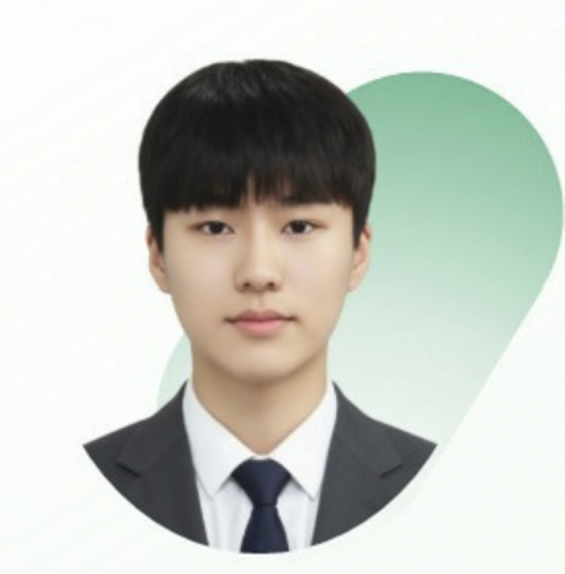
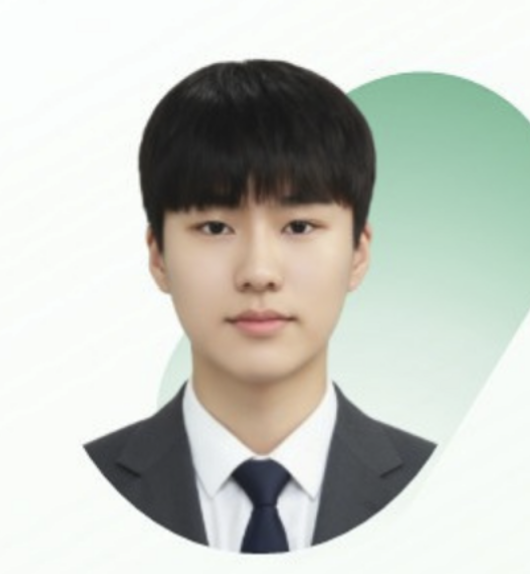
팀원 최신화 및 수상이력 추가

diff --git a/index.html b/index.html
@@ -84,8 +84,8 @@
         }
         
         .profile-image {
-            width: 150px;
-            height: 150px;
+            width: 120px;
+            height: 120px;
             border-radius: 50%;
             background: linear-gradient(135deg, rgba(255, 255, 255, 0.2), rgba(255, 255, 255, 0.05));
             border: 3px solid rgba(255, 255, 255, 0.2);
@@ -186,6 +186,10 @@
                 <a href="#team" class="inline-block px-8 py-3 bg-white bg-opacity-10 hover:bg-opacity-20 text-white rounded-full transition-all duration-300 border border-white border-opacity-20 hover:border-opacity-40">
                     팀원 소개 보기
                 </a>
+                <!-- 상위 위 수상이력 -->
+                <p style="padding-top: 10px;"><a href="prize.html" class="inline-block px-6 py-2 bg-white bg-opacity-10 hover:bg-opacity-20 text-white rounded-full transition-all duration-300 border border-white border-opacity-20 hover:border-opacity-40"">
+                    수상이력
+                </a></p>
             </div>
         </section>
 
@@ -195,16 +199,16 @@
                 <h2 class="section-title text-4xl md:text-5xl font-bold text-white text-center mb-16">
                     팀원 소개
                 </h2>
-                <div class="grid grid-cols-1 md:grid-cols-2 lg:grid-cols-4 gap-6">
+                <div class="grid grid-cols-1 md:grid-cols-2 lg:grid-cols-5 gap-6">
                     <!-- Team Member 1 -->
                     <div class="profile-card rounded-2xl p-6 text-center">
                         <div class="profile-image mb-4">
-                            <img src="./assets/images/moon.png" alt="문동형형">
+                            <img src="./assets/images/yoon.png" alt="윤지훈">
                         </div>
-                        <h3 class="text-xl font-bold text-white mb-2">문동형</h3>
+                        <h3 class="text-xl font-bold text-white mb-2">윤지훈</h3>
                         <p class="text-gray-400 mb-4">CEO</p>
                         <p class="text-sm text-gray-500 mb-4">
-                            발표 잘하는 멋쟁이
+                            팀장
                         </p>
                         <div class="flex justify-center gap-3">
                             <a href="#" class="text-gray-400 hover:text-white transition-colors">
@@ -219,12 +223,12 @@
                     <!-- Team Member 2 -->
                     <div class="profile-card rounded-2xl p-6 text-center">
                         <div class="profile-image mb-4">
-                            <img src="./assets/images/yoon.png" alt="윤지훈">
+                            <img src="./assets/images/jang.png" alt="장재훈">
                         </div>
-                        <h3 class="text-xl font-bold text-white mb-2">윤지훈</h3>
-                        <p class="text-gray-400 mb-4">훈발놈</p>
+                        <h3 class="text-xl font-bold text-white mb-2">장재훈</h3>
+                        <p class="text-gray-400 mb-4">CIO</p>
                         <p class="text-sm text-gray-500 mb-4">
-                            부지런한 인재
+                            CNCL 연구실 학부연구생
                         </p>
                         <div class="flex justify-center gap-3">
                             <a href="#" class="text-gray-400 hover:text-white transition-colors">
@@ -239,12 +243,12 @@
                     <!-- Team Member 3 -->
                     <div class="profile-card rounded-2xl p-6 text-center">
                         <div class="profile-image mb-4">
-                            <img src="./assets/images/jang.png" alt="장재훈훈">
+                            <img src="./assets/images/lim.png" alt="임성재">
                         </div>
-                        <h3 class="text-xl font-bold text-white mb-2">장재훈</h3>
-                        <p class="text-gray-400 mb-4">또라이</p>
+                        <h3 class="text-xl font-bold text-white mb-2">임성재</h3>
+                        <p class="text-gray-400 mb-4">CTO</p>
                         <p class="text-sm text-gray-500 mb-4">
-                            그냥 또라이
+                            CNCL 연구실(랩장) 학부연구생
                         </p>
                         <div class="flex justify-center gap-3">
                             <a href="#" class="text-gray-400 hover:text-white transition-colors">
@@ -259,12 +263,32 @@
                     <!-- Team Member 4 -->
                     <div class="profile-card rounded-2xl p-6 text-center">
                         <div class="profile-image mb-4">
-                            <img src="./assets/images/lim.png" alt="임성재">
+                            <img src="" alt="">
                         </div>
-                        <h3 class="text-xl font-bold text-white mb-2">임성재</h3>
-                        <p class="text-gray-400 mb-4">개발자</p>
+                        <h3 class="text-xl font-bold text-white mb-2">장우리</h3>
+                        <p class="text-gray-400 mb-4">sample</p>
                         <p class="text-sm text-gray-500 mb-4">
-                            개발 잘하는 개발자
+                            sample
+                        </p>
+                        <div class="flex justify-center gap-3">
+                            <a href="#" class="text-gray-400 hover:text-white transition-colors">
+                                <i class="fab fa-github text-xl"></i>
+                            </a>
+                            <a href="#" class="text-gray-400 hover:text-white transition-colors">
+                                <i class="fab fa-linkedin text-xl"></i>
+                            </a>
+                        </div>
+                    </div>
+
+                    <!-- Team Member 5 -->
+                    <div class="profile-card rounded-2xl p-6 text-center">
+                        <div class="profile-image mb-4">
+                            <img src="" alt="">
+                        </div>
+                        <h3 class="text-xl font-bold text-white mb-2">권현지</h3>
+                        <p class="text-gray-400 mb-4">sample</p>
+                        <p class="text-sm text-gray-500 mb-4">
+                            sample
                         </p>
                         <div class="flex justify-center gap-3">
                             <a href="#" class="text-gray-400 hover:text-white transition-colors">
@@ -277,15 +301,24 @@
                     </div>
                 </div>
             </div>
+            
         </section>
+
+        
 
         <!-- Portfolio Section -->
         <section id="portfolio" class="py-20 px-4">
             <div class="max-w-7xl mx-auto">
-                <h2 class="section-title text-4xl md:text-5xl font-bold text-white text-center mb-16">
-                    활동 포트폴리오
-                </h2>
+                <div class="flex items-center justify-between mb-8">
+                    <h2 class="section-title text-4xl md:text-5xl font-bold text-white mb-0">
+                        활동 포트폴리오
+                    </h2>
+                <p style="padding-top: 10px;"><a href="prize.html" class="inline-block px-6 py-2 bg-white bg-opacity-10 hover:bg-opacity-20 text-white rounded-full transition-all duration-300 border border-white border-opacity-20 hover:border-opacity-40"">
+                    수상이력
+                </a></p>
+                </div>
                 <div class="grid grid-cols-1 md:grid-cols-2 lg:grid-cols-3 gap-6">
+                    
                     <!-- Portfolio Item 1 -->
                     <div class="portfolio-item rounded-2xl p-6">
                         <div class="mb-4">

diff --git a/prize.html b/prize.html
@@ -1,0 +1,135 @@
+<!DOCTYPE html>
+<html lang="ko">
+<head>
+    <meta charset="UTF-8">
+    <meta name="viewport" content="width=device-width, initial-scale=1.0">
+    <title>수상이력 - C&H</title>
+    <script src="https://cdn.tailwindcss.com"></script>
+    <link rel="stylesheet" href="https://cdnjs.cloudflare.com/ajax/libs/font-awesome/6.4.0/css/all.min.css">
+    <style>
+        @import url('https://fonts.googleapis.com/css2?family=Noto+Sans+KR:wght@300;400;500;700;900&display=swap');
+        * { font-family: 'Noto Sans KR', sans-serif; }
+        body { background: linear-gradient(135deg, #1a1a2e 0%, #16213e 50%, #0f3460 100%); }
+        .profile-card, .portfolio-item, .award-item {
+            background: rgba(255,255,255,0.05);
+            backdrop-filter: blur(10px);
+            border: 1px solid rgba(255,255,255,0.1);
+            transition: all 0.3s ease;
+            border-radius: 12px;
+        }
+        .award-item:hover { transform: translateY(-6px); background: rgba(255,255,255,0.06); border-color: rgba(255,255,255,0.18); }
+        .modal-overlay { position: fixed; inset: 0; background: rgba(0,0,0,0.6); display:flex; align-items:center; justify-content:center; z-index:50; }
+        .modal-window { max-width:900px; width:95%; background: rgba(255,255,255,0.04); border-radius:12px; padding:20px; border:1px solid rgba(255,255,255,0.12); box-shadow:0 20px 50px rgba(0,0,0,0.6); color:#fff; }
+        .modal-image { width: 100%; max-height: 450px; object-fit:contain; border-radius:8px; }
+    </style>
+</head>
+<body class="text-white">
+    <div class="max-w-7xl mx-auto px-6 py-20">
+        <div class="flex items-center justify-between mb-8">
+            <h1 class="text-4xl md:text-5xl font-bold">수상이력</h1>
+            <a href="index.html" class="inline-block px-6 py-2 bg-white bg-opacity-10 hover:bg-opacity-20 text-white rounded-full transition-all duration-300 border border-white border-opacity-20 hover:border-opacity-40">홈으로</a>
+        </div>
+
+        <!-- Gallery: 상장 모아 -->
+        <div class="mb-8">
+        <div class="award-item relative overflow-hidden rounded-xl cursor-pointer" data-image="./assets/images/prize/total.jpg" data-title="수상 모음 사진" data-desc="지금까지 받은 상장들을 모아 찍은 사진입니다.">
+            <img src="./assets/images/prize/total.jpg" alt="수상 모음" class="w-full h-56 md:h-96 object-cover object-center filter brightness-75" />
+                <div class="absolute inset-0 flex items-start px-8 pt-6 md:pt-12">
+                    <p class="text-gray-200/40 max-w-2xl""> 클릭하면 이미지를 크게 볼 수 있습니다.</p>
+                    <!-- <div class="text-white">
+                        <h2 class="text-2xl md:text-3xl font-bold">갤러리</h2>
+                        <p class="text-gray-200/80 mt-2 max-w-2xl">여러 상장을 콜라주 형태로 배치한 사진입니다.</p>
+                        <p class="text-gray-200/80 mt-2 max-w-2xl"> 클릭하면 이미지를 크게 볼 수 있습니다.</p>
+                    </div> -->
+                </div>
+            </div>
+        </div>
+
+        <p class="text-gray-300 mb-8">C&H의 주요 수상 및 경력입니다. 항목을 클릭하면 사진과 간단한 설명을 확인할 수 있습니다.</p>
+
+        <div class="grid grid-cols-1 sm:grid-cols-2 lg:grid-cols-3 gap-6">
+            <!-- Award 1 -->
+            <div class="award-item p-6 cursor-pointer" data-image="./assets/images/prize/co_show.jpg" data-title="창업 경진대회 대상 (2024)" data-desc="부산광역시장상 수상">
+                <div class="flex items-start gap-4">
+                    <i class="fas fa-trophy text-3xl text-white opacity-80"></i>
+                    <div>
+                        <h3 class="text-xl font-bold">co-show 최우수상</h3>
+                        <p class="text-gray-400 text-sm mt-2">혁신적 아이디어와 팀워크로 우수한 성과를 거둠.</p>
+                    </div>
+                </div>
+            </div>
+
+            <!-- Award 2 -->
+            <div class="award-item p-6 cursor-pointer" data-image="" data-title="기술창업 아이디어상" data-desc="핵심 기술 설계 및 프로토타입으로 수상.">
+                <div class="flex items-start gap-4">
+                    <i class="fas fa-award text-3xl text-white opacity-80"></i>
+                    <div>
+                        <h3 class="text-xl font-bold">제목</h3>
+                        <p class="text-gray-400 text-sm mt-2">간단설명</p>
+                    </div>
+                </div>
+            </div>
+
+            <!-- Award 3 -->
+            <div class="award-item p-6 cursor-pointer" data-image="" data-title="창업 멘토상" data-desc="팀 활동 및 멘토링 우수 활동으로 선정.">
+                <div class="flex items-start gap-4">
+                    <i class="fas fa-medal text-3xl text-white opacity-80"></i>
+                    <div>
+                        <h3 class="text-xl font-bold">제목</h3>
+                        <p class="text-gray-400 text-sm mt-2">간단설명</p>
+                    </div>
+                </div>
+            </div>
+
+            <!-- Award 4 -->
+            <div class="award-item p-6 cursor-pointer" data-image="" data-title="우수과제상" data-desc="교내 연구과제에서 우수한 성과로 수상.">
+                <div class="flex items-start gap-4">
+                    <i class="fas fa-lightbulb text-3xl text-white opacity-80"></i>
+                    <div>
+                        <h3 class="text-xl font-bold">제목</h3>
+                        <p class="text-gray-400 text-sm mt-2">간단설명</p>
+                    </div>
+                </div>
+            </div>
+
+            <!-- Award 5 -->
+            <div class="award-item p-6 cursor-pointer" data-image="" data-title="사회공헌상" data-desc="지역사회와 연계한 프로젝트로 수상.">
+                <div class="flex items-start gap-4">
+                    <i class="fas fa-hands-helping text-3xl text-white opacity-80"></i>
+                    <div>
+                        <h3 class="text-xl font-bold">제목</h3>
+                        <p class="text-gray-400 text-sm mt-2">간단설명</p>
+                    </div>
+                </div>
+            </div>
+
+            <!-- Award 6 -->
+            <div class="award-item p-6 cursor-pointer" data-image="" data-title="우수팀워크상" data-desc="팀 내 협업과 조직문화 기여로 수상.">
+                <div class="flex items-start gap-4">
+                    <i class="fas fa-users text-3xl text-white opacity-80"></i>
+                    <div>
+                        <h3 class="text-xl font-bold">제목</h3>
+                        <p class="text-gray-400 text-sm mt-2">간단설명</p>
+                    </div>
+                </div>
+            </div>
+        </div>
+    </div>
+
+    <!-- Modal (hidden by default) -->
+    <div id="award-modal" class="hidden">
+        <div class="modal-overlay">
+            <div class="modal-window">
+                <div class="flex justify-end">
+                    <button class="modal-close text-gray-300 hover:text-white text-xl"><i class="fas fa-times"></i></button>
+                </div>
+                <h2 class="modal-title text-2xl font-bold mb-4">제목</h2>
+                <img class="modal-image mb-4" src="" alt="award image" />
+                <p class="modal-desc text-gray-300"></p>
+            </div>
+        </div>
+    </div>
+
+    <script src="assets/js/main.js"></script>
+</body>
+</html>

diff --git a/assets/js/main.js b/assets/js/main.js
@@ -46,6 +46,41 @@ document.addEventListener('DOMContentLoaded', () => {
             }
         });
     });
+
+    // 수상이력(award) 모달 핸들링
+    const awardItems = document.querySelectorAll('.award-item');
+    const modal = document.querySelector('#award-modal');
+    const modalOverlay = document.querySelector('#award-modal .modal-overlay');
+    const modalImg = document.querySelector('#award-modal .modal-image');
+    const modalTitle = document.querySelector('#award-modal .modal-title');
+    const modalDesc = document.querySelector('#award-modal .modal-desc');
+    const modalClose = document.querySelector('#award-modal .modal-close');
+
+    if (awardItems && modal) {
+        awardItems.forEach(item => {
+            item.addEventListener('click', () => {
+                const img = item.getAttribute('data-image') || '';
+                const title = item.getAttribute('data-title') || '';
+                const desc = item.getAttribute('data-desc') || '';
+
+                if (modalImg) modalImg.src = img;
+                if (modalTitle) modalTitle.textContent = title;
+                if (modalDesc) modalDesc.textContent = desc;
+
+                modal.classList.remove('hidden');
+                document.body.style.overflow = 'hidden';
+            });
+        });
+
+        const closeModal = () => {
+            modal.classList.add('hidden');
+            document.body.style.overflow = '';
+        };
+
+        if (modalOverlay) modalOverlay.addEventListener('click', closeModal);
+        if (modalClose) modalClose.addEventListener('click', closeModal);
+        document.addEventListener('keydown', (e) => { if (e.key === 'Escape') closeModal(); });
+    }
 });
 
 // 마우스 커서 효과 (선택사항)
